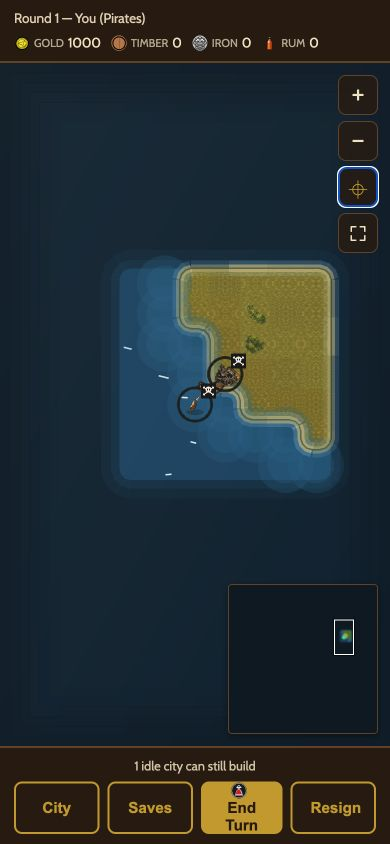
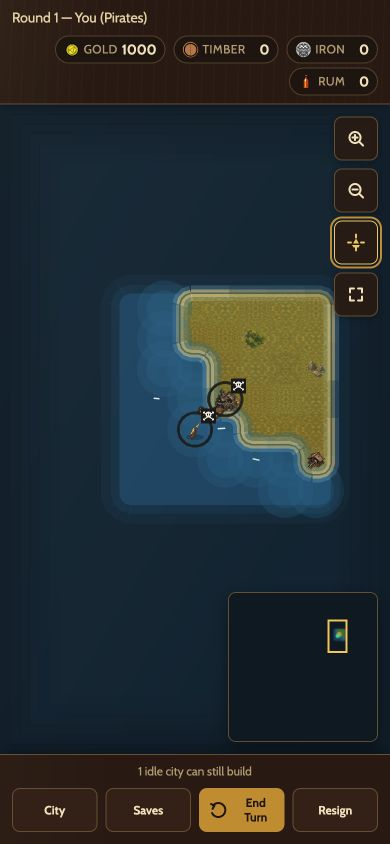
docs(web): rebind terrain captures after chrome integration (#611)

diff --git a/docs/art/world-map-v2/terrain/RUNTIME-CAPTURES.md b/docs/art/world-map-v2/terrain/RUNTIME-CAPTURES.md
@@ -4,8 +4,8 @@ All six captures come from one untouched round-1 96×96 square-map session with 
 default/no-override theme, and no gameplay action between frames. The browser origin was fresh so
 the development service worker could not substitute an older same-path terrain asset. Exact image
 hashes, camera procedures, canvas sizes, and limitations are in `runtime-capture-receipt.json`. The
-receipt binds the repaired renderer and runtime terrain assets at
-`76214b0df4de930d5b9d0cae9fe0f3a7521de494`; any bound-source or capture-byte change invalidates
+receipt binds the combined terrain and shared-chrome renderer plus runtime terrain assets at
+`090cb97bb8f93fd35d774014f7bb945bd9b6162d`; any bound-source or capture-byte change invalidates
 this evidence.
 
 The New Game UI creates a seeded deterministic map but does not expose that seed. These images
